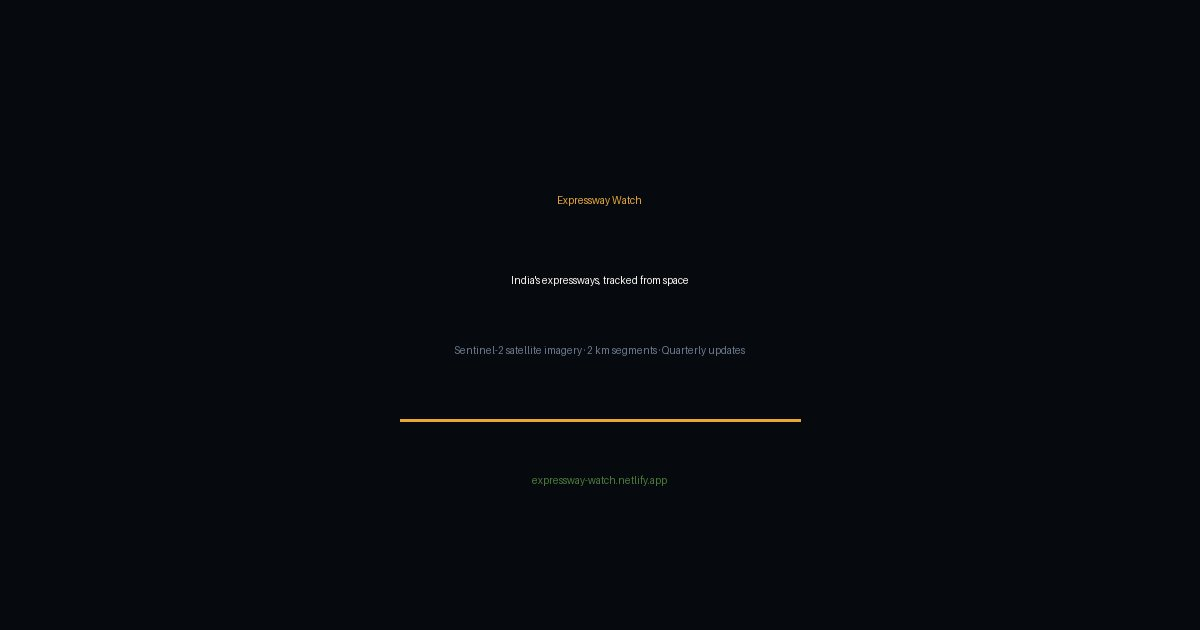
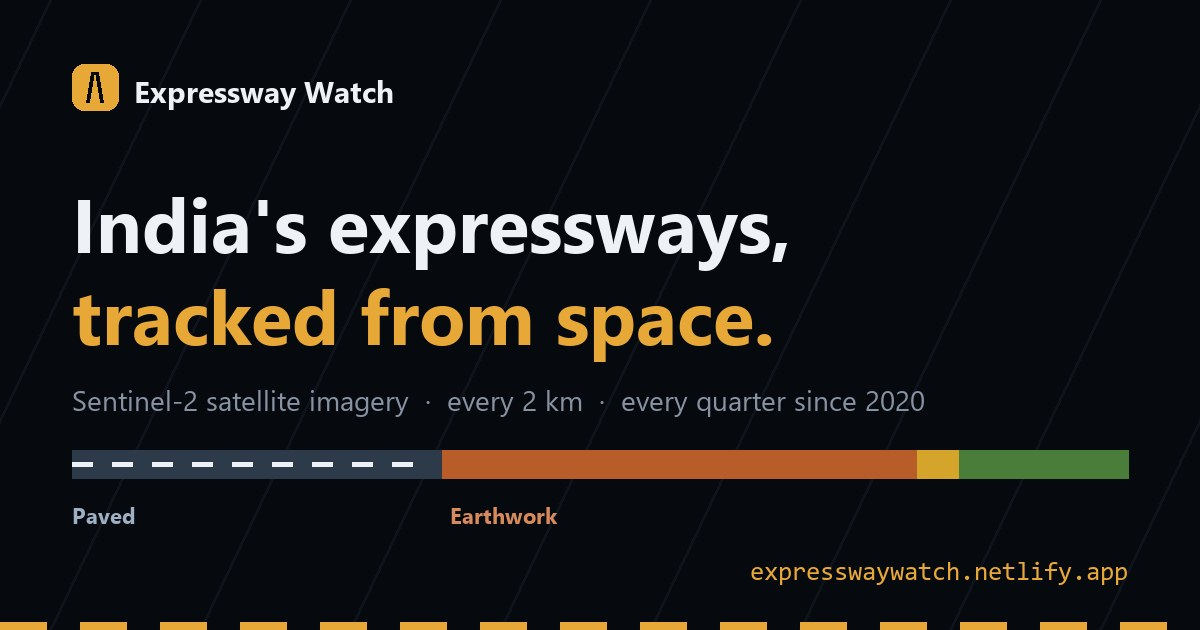
README: live site links, screenshots, fixed links; new link-preview image
- Live dashboard badge and a table of deep links (home, both highways, the
  comparison, the offline file); at-a-glance table; screenshots of a highway
  page and the comparison view taken from the live site.
- Remove links to files that were never committed (results/, chart PNGs, the
  PDF summary, LICENSE, scripts) and correct the deploy notes (master branch,
  netlify.toml publishes docs/, render_pages.py).
- docs/og.jpg: readable at preview size, and shows the real address
  (expresswaywatch.netlify.app, not expressway-watch.netlify.app).

diff --git a/README.md b/README.md
@@ -1,22 +1,80 @@
 # Expressway Watch
 
-**Tracking expressway construction progress from free satellite imagery, 2 km at a time.**
+**Tracking India's expressway construction from free satellite imagery, 2 km at a time.**
 
-[![Open In Colab](https://colab.research.google.com/assets/colab-badge.svg)](https://colab.research.google.com/github/Elmozoop/expressway-watch/blob/main/notebooks/Expressway_Watch.ipynb)
+[![Live dashboard](https://img.shields.io/badge/live%20dashboard-expresswaywatch.netlify.app-e8a838?style=for-the-badge&labelColor=06090e)](https://expresswaywatch.netlify.app)
+[![Open in Colab](https://img.shields.io/badge/run%20it-Google%20Colab-f9ab00?style=for-the-badge&logo=googlecolab&labelColor=06090e)](https://colab.research.google.com/github/Elmozoop/expressway-watch/blob/master/notebooks/Expressway_Watch.ipynb)
+[![Netlify status](https://img.shields.io/badge/hosted%20on-Netlify-00ad9f?style=for-the-badge&logo=netlify&labelColor=06090e)](https://expresswaywatch.netlify.app)
 
-Expressway Watch takes a highway alignment, cuts it into 2 km chainage segments, and uses every quarter of Sentinel-2 imagery since 2020 to estimate what stage each segment was in: **not started → clearing → earthwork → paved**. It needs no field visits, no paid data and no login, and runs end to end in Google Colab.
+[![Expressway Watch: India's expressways, tracked from space](docs/og.jpg)](https://expresswaywatch.netlify.app)
 
-**Quick links:** [one-page summary (PDF)](docs/Expressway_Watch_summary.pdf) · interactive dashboard: [`docs/dashboard.html`](docs/dashboard.html) (one self-contained file: download it and open it in any browser; to put it online, see [Deploy the dashboard](#deploy-the-dashboard)) · notebooks: [any highway](notebooks/Expressway_Watch.ipynb) · [Delhi–Amritsar–Katra preset](notebooks/Expressway_Watch_Delhi_Katra.ipynb)
+Expressway Watch takes a highway's route, cuts it into 2 km pieces, and reads every quarter of Sentinel-2 imagery since 2020 to estimate what stage each piece was in: **not started → clearing → earthwork → paved**. It needs no field visits, no paid data and no login, and runs end to end in Google Colab.
 
-Two case studies: the **Ganga Expressway** (Meerut–Prayagraj, 594 km), which opened in April 2026 and so has a known finish date to check the method against, and the **Delhi–Amritsar–Katra Expressway** (NHAI, 670 km), which is still being built.
+### 👉 [Open the live dashboard](https://expresswaywatch.netlify.app)
 
+| Jump straight to | Link |
+|---|---|
+| Home: the road taken apart in 3D, a satellite time-lapse, how to read it | [expresswaywatch.netlify.app](https://expresswaywatch.netlify.app) |
+| Delhi–Amritsar–Katra Expressway (NHAI, still being built) | [/#delhi-amritsar-katra](https://expresswaywatch.netlify.app/#delhi-amritsar-katra) |
+| Ganga Expressway (UPEIDA, opened April 2026) | [/#ganga-expressway](https://expresswaywatch.netlify.app/#ganga-expressway) |
+| The two side by side | [/#compare/delhi-amritsar-katra/ganga-expressway](https://expresswaywatch.netlify.app/#compare/delhi-amritsar-katra/ganga-expressway) |
+| Offline copy (one self-contained file) | [`docs/dashboard.html`](docs/dashboard.html): download it and open it in any browser |
 
+## Contents
 
-![Construction stage by chainage along the Ganga Expressway](docs/img/whole_route_stages.png)
+- [At a glance](#at-a-glance)
+- [What's on the dashboard](#whats-on-the-dashboard)
+- [Results: Ganga Expressway](#results-ganga-expressway)
+- [Results: Delhi–Amritsar–Katra Expressway](#results-delhiamritsarkatra-expressway)
+- [How it works](#how-it-works)
+- [Run it yourself](#run-it-yourself)
+- [Build and deploy the dashboard](#build-and-deploy-the-dashboard)
+- [Repository layout](#repository-layout)
+- [Limitations](#limitations)
+- [Roadmap](#roadmap) · [Data and credits](#data-and-credits)
 
-## Results: 7 stretches along the Ganga Expressway
+## At a glance
 
-I analysed 140 km of the 594 km route: seven 20 km stretches spread from Meerut to Prayagraj, one in each of seven different construction packages. That's 70 segments of 2 km.
+| | Ganga Expressway | Delhi–Amritsar–Katra Expressway |
+|---|---|---|
+| Built by | UPEIDA, Uttar Pradesh | NHAI, Haryana · Punjab · J&K |
+| Length | 594 km, Meerut → Prayagraj | 670 km, Delhi → Katra |
+| Status | Opened 29 April 2026 | Under construction |
+| Tracked | 140 km: 7 stretches of 20 km, one per construction package | 120 km: 6 stretches of 20 km, from Delhi to about km 400 |
+| Paved by 2026 Q3 | **94%** of the tracked km | **35%** of the tracked km |
+| What it shows | The method checks out: 66 of 70 pieces seen paved before the road opened | Progress falls away along the route: the Delhi end is largely paved, almost nothing past km 230 is |
+
+The Ganga Expressway has a known finish date, so it is the test of the method. The Delhi–Amritsar–Katra Expressway is still being built, which is where a tool like this is actually useful.
+
+## What's on the dashboard
+
+[![A highway page on the dashboard](docs/img/readme/highway.png)](https://expresswaywatch.netlify.app/#delhi-amritsar-katra)
+
+**The home page** explains before it asks:
+
+- **An expressway, taken apart.** A 3D slice of road (three.js) comes apart as you scroll, one layer at a time: asphalt surface, binder course, base, sub-base and embankment. Each is outlined as the words reach it, with its typical real thickness and the stage the satellite reads while it is the top layer. The slice is then rebuilt the way the satellite sees it (not started, clearing, earthwork, paved), and the camera swings overhead to the satellite's view.
+- **A satellite time-lapse** of one piece of the Ganga Expressway, 2020 to 2026, with the stage the tool decided for each quarter.
+- **How to read it:** six years of that one piece, scrolled through. The photo, the two readings the tool takes (green cover against nearby fields, and short-wave infrared brightness) and the stage it decides move together, with the thresholds drawn on the charts.
+- **The whole road, told as you scroll:** the Ganga route colours itself quarter by quarter, from farmland to opening day.
+- **Can you trust it?** The checks against what actually happened.
+
+**Each highway page** has a sticky timeline that plays or scrubs every chart on the page through time:
+
+- **Headline:** the share paved, the tracked road laid end to end as one coloured bar, and a route map.
+- **Where work has stalled** (live projects): every stuck stretch on a 2020–2026 time axis. Pieces that read as stuck where OpenStreetMap says the road is open are listed separately, as likely misses by the tool. **Did it get it right?** (finished projects) puts the reported dates next to what the satellite saw.
+- **Along the route:** every tracked piece at its real distance along the road, with kilometre stones and towns, and a quarter-by-quarter grid for any stretch you pick.
+- **See it for yourself:** drag-to-compare Sentinel-2 images, with the tool's stage for that piece in every quarter underneath, and **Save time-lapse video**, which records the place's images into an MP4 or WebM in your browser.
+- **Progress over time** and **Get the data** (every piece and quarter as a CSV).
+
+**The comparison page** puts two roads on one timeline:
+
+[![Two expressways compared on the dashboard](docs/img/readme/compare.png)](https://expresswaywatch.netlify.app/#compare/delhi-amritsar-katra/ganga-expressway)
+
+It works on phones (including held sideways), in light and dark mode, with reduced motion, without JavaScript (a notice and the headline) and when printed. Links open the right page directly: `/#delhi-amritsar-katra`, `/#compare/<id>/<id>`.
+
+## Results: Ganga Expressway
+
+Seven 20 km stretches spread from Meerut to Prayagraj, one in each of seven construction packages: 140 km of the 594 km route, 70 pieces of 2 km.
 
 | Stretch | Package (approx.)* | Earthwork starts (median) | Paved (median) | Median build time | Paved before opening |
 |---|---|---|---|---|---|
@@ -28,45 +86,18 @@ I analysed 140 km of the 594 km route: seven 20 km stretches spread from Meerut 
 | km 450–470 | 10 | 2023 Q1 | 2025 Q4 | 33 months | 9 / 10 |
 | km 550–570 | 12 | 2023 Q1 | 2025 Q4 | 33 months | 7 / 10 |
 
-\* Package by cumulative length along the route, from the 12 Phase-1 packages listed on [Wikipedia](https://en.wikipedia.org/wiki/Ganga_Expressway). OSM chainage can differ from official chainage by a few km.
+\* Package by cumulative length along the route, from the 12 Phase-1 packages listed on [Wikipedia](https://en.wikipedia.org/wiki/Ganga_Expressway). OpenStreetMap chainage can differ from official chainage by a few km.
 
-**What the satellite timeline shows:**
-- **Checked against reported dates:**
-  - Earthwork starts between 2022 Q3 and 2023 Q1 almost everywhere, right after the reported start of physical work (April 2022).
-  - **66 of 70 segments (94%)** show paving before the reported inauguration (29 April 2026).
-- **Construction started along the whole route at about the same time.** Work didn't move from one end to the other: every package broke ground within about 6 months of the others.
-- **The middle of the route finished first.** km 200–270 (packages 5–6) were paved around 2024 Q4, about a year before every other stretch sampled (around 2025 Q4). Median build time was 25.5–27 months there, against 33–39 months elsewhere.
-- **The 4 misses are the model's fault, not the road's.** At km 450–452, 556–558, 564–566 and 566–568, the finished carriageway is clearly visible in the 2026 images, but the paving signal was too weak to pass the test. They're counted as misses, not as unfinished road.
+- **It matches the reported dates.** Earthwork starts between 2022 Q3 and 2023 Q1 almost everywhere, right after the reported start of physical work (April 2022). **66 of 70 pieces (94%)** are seen paved by 2026 Q1, before the road opened on 29 April 2026.
+- **Work started along the whole route at once.** Every package broke ground within about 6 months of the others; work didn't move from one end to the other.
+- **The middle finished first.** km 200–270 (packages 5–6) were paved around 2024 Q4, about a year before every other stretch sampled, in 25.5–27 months against 33–39 months elsewhere.
+- **The 4 misses are the tool's fault, not the road's.** At km 450–452, 556–558, 564–566 and 566–568 the finished carriageway is clearly visible in the 2026 images, but the paving signal was too weak to pass the test.
 
-![Median build time per stretch](docs/img/whole_route_build_time.png)
+Paving quarters are estimates, good to about ±2 quarters. Paving has to be confirmed in a dry-season quarter, so many paving dates land on a Q4.
 
-Paving quarters are estimates, good to about ±2 quarters. Paving has to be confirmed in a dry-season quarter, so many paving dates land on a Q4. I haven't found reported paving dates per chainage to check them against.
+## Results: Delhi–Amritsar–Katra Expressway
 
-### The paving signal
-While earthwork is going on, the exposed fill and granular layers are bright in short-wave infrared (SWIR, Sentinel-2 band 11). Once bitumen goes down, the carriageway gets much darker. Each segment is compared with its own earthwork peak, so no absolute cut-off is needed. Damp soil also darkens SWIR, so a drop only counts if it's confirmed in a dry-season quarter (January–June).
-
-![SWIR paving indicator km 0–20](docs/img/swir_paving_indicator_km0-20.png)
-
-### Before / after
-![Before and after, km 0–2](docs/img/before_after_km0-2.png)
-![Before and after, km 250–252](docs/img/before_after_km250-252.png)
-
-### Per-stretch results
-Each folder in [`results/`](results/) (`ganga_km0-20`, `ganga_km100-120`, … `ganga_km550-570`) contains:
-- `segment_milestones.csv`: the first-earthwork and first-paved quarter for each segment
-- `segment_quarter_stats.csv`: every metric for every segment and quarter
-- `segments_latest.geojson`: can be opened in QGIS or geojson.io
-- charts: stage heatmap, progress curve, paving indicator, and a before/after image
-
-[`results/whole_route_summary.csv`](results/whole_route_summary.csv) has the table above.
-
-## A live project: Delhi–Amritsar–Katra Expressway (NHAI)
-
-The Ganga Expressway shows the method works on a road whose finish date is known. This one is still being built, which is where the tool is actually useful.
-
-Six 20 km stretches were tracked along the route OpenStreetMap maps from Delhi towards Katra (about 400 km of the 670 km project), 60 pieces of 2 km in all.
-
-![Stage of each 2 km piece along the Delhi–Amritsar–Katra Expressway](docs/img/dak_profile.png)
+Six 20 km stretches along the route OpenStreetMap maps from Delhi towards Katra (about 400 km of the 670 km project): 60 pieces of 2 km.
 
 | Stretch | Paved | Earthwork | Not started | Earthwork began (median) | OSM tag |
 |---|---|---|---|---|---|
@@ -77,123 +108,98 @@ Six 20 km stretches were tracked along the route OpenStreetMap maps from Delhi t
 | km 300–320 | 0/10 | 10/10 | – | 2022 Q3 | under construction |
 | km 380–400 | 0/10 | 3/10 | 7/10 | 2024 Q1 | under construction |
 
-**Progress falls away along the route.** Near Delhi, 16 of 20 pieces are paved. From km 230 onwards, almost none are: km 300–320 is entirely earthwork four years after work began, and 10 pieces (4 at km 242–250, 6 between km 380 and 394) still show no sign of work at all.
-
-That matches what is reported: the Haryana sections are largely finished while Punjab is held up by land acquisition, with completion now put at March 2028.
-
-**An independent check.** OpenStreetMap tags this road as *under construction* from about km 210 onward, and as an open motorway before that. The satellite timeline agrees: paving stops between km 150 and km 230. Neither source knows about the other. ([`results/dak_osm_crosscheck.csv`](results/dak_osm_crosscheck.csv))
-
-**Where the tool is wrong:** a few pieces near Delhi read as earthwork although the road there is open, the same weakness as on the Ganga. Per-stretch results are in [`results/dak_km*/`](results/), including before/after satellite strips for every stalled piece.
+- **Progress falls away along the route.** Near Delhi, 16 of 20 pieces are paved. From km 230 on, almost none are: km 300–320 is entirely earthwork four years after work began, and 10 pieces (4 at km 242–250, 6 between km 380 and 394) show no sign of work at all. That matches what is reported: the Haryana sections are largely finished while Punjab is held up by land acquisition, with completion now put at March 2028.
+- **An independent check agrees.** OpenStreetMap tags the road as *under construction* from about km 210 onward and as an open motorway before that. The satellite timeline sees paving stop between km 150 and km 230. Neither source knows about the other.
+- **Where the tool is wrong:** a few pieces near Delhi read as earthwork although the road there is open, the same weakness as on the Ganga.
 
 ## How it works
 
-1. **Alignment.** OpenStreetMap ways for the expressway are chained into one carriageway, 594 km for the Ganga Expressway. A copy is saved in [`data/`](data/), so runs don't depend on Overpass.
-2. **Segments.** The route is cut every 2 km. Each segment gets three zones:
+1. **Route.** OpenStreetMap ways for the expressway are chained into one carriageway (594 km for the Ganga Expressway). Copies are saved in [`data/`](data/), so runs don't depend on Overpass.
+2. **Pieces.** The route is cut every 2 km. Each piece gets three zones:
    - a 70 m **corridor**
    - a 40 m **carriageway strip**
    - a **control ring** of untouched land 150–400 m to each side
 3. **Imagery.** For each quarter, the 2 clearest Sentinel-2 L2A days are cloud-masked with the scene classification layer and combined into a median composite. Imagery comes from Microsoft Planetary Computer, with Earth Search on AWS as a fallback. Each quarter is cached as soon as it's done.
 4. **Stages.**
-   - **Clearing and earthwork:** the corridor loses vegetation relative to the control ring. The ring cancels out crop harvests and seasons. Earthwork has to show up again within a year, so a one-off harvest dip doesn't count.
-   - **Paving:** a lasting SWIR drop on the carriageway strip, held for 2 quarters, at least one of them in the dry season (January–June).
-   - **Monotone:** progress can't go backwards, so verges greening up after construction don't reset a segment.
-5. **Outputs.** Progress curve, stage heatmap, paving indicator, stalled-segment list, before/after images, interactive map, CSV and GeoJSON. `EXTRA_STRETCHES` runs several stretches in one session.
+   - **Clearing and earthwork:** the corridor loses vegetation relative to the control ring. The ring cancels out harvests and seasons. Earthwork has to show up again within a year, so a one-off harvest dip doesn't count.
+   - **Paving:** while earthwork goes on, exposed fill and gravel are bright in short-wave infrared (SWIR, Sentinel-2 band 11); once bitumen goes down, the carriageway turns much darker. Each piece is compared with its own earthwork peak, so no fixed cut-off is needed. The drop has to hold for 2 quarters, at least one of them in the dry season (January–June), because damp soil darkens SWIR too.
+   - **No going backwards:** verges greening up after construction don't reset a piece.
+5. **Outputs.** Progress curve, stage heatmap, paving indicator, stalled-piece list, before/after images, an interactive map, CSV and GeoJSON.
 
-More detail is in [docs/METHOD.md](docs/METHOD.md). How the method changed after checking it against real data is in [docs/CHANGELOG.md](docs/CHANGELOG.md).
+More detail is in [docs/METHOD.md](docs/METHOD.md). How the method and the dashboard changed over time is in [docs/CHANGELOG.md](docs/CHANGELOG.md).
 
 ## Run it yourself
 
-1. Click **Open in Colab** above.
+1. Click **Run it: Google Colab** above.
 2. In **Step 1**, set the stretch, for example `KM_FROM, KM_TO = 250, 270`.
 3. Choose `Runtime → Run all`. About 20 minutes the first time, then a few minutes for re-runs: the notebook saves the imagery and fetches only what is new.
 
-To add a quarter, move `END` in Step 1 to its last day (for example `"2026-12-31"`) and run all again, at least five days after that date so the last images have reached the catalogues. The notebook searches for scenes again and builds only the new quarter. It also rebuilds any quarter that was saved before it had ended, or for which clearer days have turned up since.
+- **Add a quarter:** move `END` in Step 1 to its last day (for example `"2026-12-31"`) and run all again, at least five days after that date so the last images have reached the catalogues. Only the new quarter is built, plus any quarter saved before it had ended or for which clearer days have turned up since.
+- **Try another expressway:** change `EXPRESSWAY_NAME`, `SEARCH_BBOX` and `ROUTE_START`, and set `ROUTE_FILE = None` to fetch the route from OpenStreetMap. There is also a [Delhi–Amritsar–Katra preset](notebooks/Expressway_Watch_Delhi_Katra.ipynb).
+- **Unit tests:** `pytest tests/` (pure functions in [`src/expressway_watch/core.py`](src/expressway_watch/core.py), on synthetic data).
 
-To try another expressway, change `EXPRESSWAY_NAME`, `SEARCH_BBOX` and `ROUTE_START`, and set `ROUTE_FILE = None` to fetch the alignment from OpenStreetMap.
+## Build and deploy the dashboard
 
-## The dashboard
+**Build.** `python tools/build_dashboard.py` builds the pages from `tools/highways.json`, the `results/` folders from the notebook runs, the satellite chips in `docs/img/sat/` and [`tools/dashboard_template.html`](tools/dashboard_template.html). It writes:
 
-`tools/build_dashboard.py` builds it from `tools/highways.json`, the `results/` folders and the satellite chips in `docs/img/sat/`.
+- `docs/index.html`: the hosted page. It links the satellite images and fetches three.js from `docs/vendor/` only when the 3D scene is about to be drawn.
+- `docs/dashboard.html`: the same page as one file with everything embedded, to download and open offline.
 
-The home page explains before it asks:
+For changes to the page itself (layout, styles, scripts) without the `results/` folders at hand, `python tools/render_pages.py` re-renders both pages from the template, reusing the data already inside them.
 
-- **An expressway, taken apart**: a 3D slice of road, drawn with three.js, comes apart as you scroll. The asphalt surface, binder course, base, sub-base and embankment lift off the fields one at a time, each labelled with what it is and the stage the satellite reads while it is the top layer. The slice is then rebuilt the way the satellite sees it (not started, clearing, earthwork, paved), and the camera swings overhead to the satellite's view. The layers are drawn much thicker than they are, and the page says so.
-- **A satellite time-lapse** of one piece of the Ganga Expressway, 2020 to 2026, wiping from image to image with the stage the tool decided for each.
-- **Pick a highway**: one card per road, with its route, status and how much is paved.
-- **How to read it**: scroll through six years of that one piece. The photo, the two readings the tool takes (green cover against nearby fields, and short-wave infrared brightness) and the stage it decides move together, one quarter at a time, with the thresholds drawn on the charts.
-- **The whole road, told as you scroll**: the Ganga route colours itself quarter by quarter in five chapters, from farmland to opening day. The numbers in the words follow the map.
-- **Can you trust it?**: the checks against what actually happened: 66 of 70 Ganga pieces seen paved by 2026 Q1, the quarter before it opened, and on the Delhi–Katra road, OpenStreetMap's open section ends about where the satellite sees paving stop.
+`tools/test_dashboard.py` drives every screen in Chromium (Playwright) on a desktop, phones and phones held sideways, and fails on any error.
 
-Each highway page:
+**Deploy.** The live site is on Netlify, which redeploys on every push to `master`:
 
-- **Headline**: the share paved, the road laid end to end as one coloured bar, and a route map. The sticky timeline scrubs or plays every chart on the page through time.
-- **Where work has stalled** (live projects): one bar per stuck stretch on a 2020–2026 time axis, from when it got stuck to today, against the reported start of work. Pieces that read as stuck where OpenStreetMap says the road is open are listed separately, as likely misses by the tool. **Did it get it right?** (finished projects) puts the reported dates next to what the satellite saw.
-- **Along the route**: every tracked piece at its real distance along the road, with kilometre stones and towns, then one tile per stretch and a quarter-by-quarter grid for the stretch you pick.
-- **See it for yourself**: drag-to-compare Sentinel-2 images of a finished piece and a stalled one, with the tool's stage for that exact piece in every quarter underneath.
-- **Progress over time** and **Get the data** (every piece and quarter as a CSV).
-
-It works on phones (including held sideways), in dark mode, with reduced motion, without JavaScript (a notice and the headline), and when printed. With reduced motion the opening scene is a still picture with its layers and stages listed; where there is no WebGL, it is just the lists. On a computer without a graphics card, where every 3D frame holds the page up, the scene waits for your first scroll and then runs on its plainest setting. Share links open the right highway directly (`/#delhi-amritsar-katra`).
-
-It writes three files: `docs/index.html` (for hosting: links the satellite images, so it loads fast), `docs/dashboard.html` (the same page as one file with everything embedded, to download and open offline) and `docs/_fragment.html` (the single file without its `<html>`/`<head>` wrapper; not committed). GSAP is inlined from `tools/vendor/`; three.js is copied from there to `docs/vendor/three.min.js`, which `index.html` fetches only when the opening scene is about to be drawn (a highway page opened from a link never loads it), and is inlined into `dashboard.html`. The page needs no script CDN. **Upload `docs/vendor/` with the rest of `docs/`**, or the hosted page shows the opening scene as plain lists. `tools/test_dashboard.py` drives every screen in Chromium on a desktop, two phones and phones held sideways (359 checks, including that nothing overflows or overlaps and that the 3D model never jumps) and fails on any error. It serves the page's font from `tools/vendor/fonts/`, so it runs offline.
-
-## Deploy the dashboard
-
-**Netlify.** Log in at [netlify.com](https://www.netlify.com) with GitHub, choose **Add new site → Import an existing project**, pick `Elmozoop/expressway-watch`, and deploy. Leave the build settings empty: [`netlify.toml`](netlify.toml) already has them.
-
-- It builds from `docs/` (`base = "docs"`), so Netlify doesn't try to pip-install the pipeline's `requirements.txt` at the repo root.
-- The one build step, [`tools/netlify_build.sh`](tools/netlify_build.sh), turns the link-preview image into a full URL, so a link shared on WhatsApp, LinkedIn or Slack shows [`docs/og.jpg`](docs/og.jpg).
-- Every push to `main` redeploys.
-
-**GitHub Pages.** *Settings → Pages → Source: deploy from a branch → `main` / `/docs`.* Link previews won't have an image there, because the image path stays relative.
+- [`netlify.toml`](netlify.toml) publishes `docs/`. Pages are routed by `#`, so there are no rewrites, and images and three.js are cached for a week.
+- The one build step, [`tools/netlify_build.sh`](tools/netlify_build.sh), turns the link-preview image into a full URL, so a link shared on WhatsApp, LinkedIn or Slack shows [`docs/og.jpg`](docs/og.jpg). Set `SITE_URL` in Netlify's environment variables if the site moves to its own domain.
+- **GitHub Pages** works too: *Settings → Pages → deploy from a branch → `master` / `/docs`*. Link previews won't have an image there, because the image path stays relative.
 
 ## Repository layout
 
 ```
-notebooks/Expressway_Watch.ipynb   the full pipeline (generated from src/ by tools/build_notebook.py)
-src/expressway_watch/core.py       geometry, pixel classes and stage logic (pure functions)
-tests/test_core.py                 unit tests on synthetic data  ->  pytest
-data/                              saved OSM alignments (Ganga, Delhi-Amritsar-Katra)
-results/ganga_km*/                 Ganga Expressway: seven stretches
-results/dak_km*/                   Delhi-Amritsar-Katra: six stretches
-tools/highways.json                what the dashboard shows for each highway
-tools/build_dashboard.py           builds the dashboard from tools/dashboard_template.html
-tools/test_dashboard.py            browser test of the built dashboard (playwright)
-tools/make_og_image.py             renders docs/og.jpg, the link-preview image
-tools/cut_sat_chips.py             cuts a notebook before/after strip into chips for docs/img/sat/
-tools/netlify_build.sh             Netlify's build step (see netlify.toml)
-tools/vendor/                      GSAP, three.js and the Overpass font, with their licences
-tools/whole_route_figures.py       whole-route chart and summary table from all results/ folders
-netlify.toml                       static hosting config (builds from docs/)
-pytest.ini                         points pytest at tests/ (the browser test is run directly)
-docs/                              dashboard, method notes, changelog, figures, docs/img/sat/ satellite chips,
-                                   docs/vendor/ the page's copy of three.js
+notebooks/Expressway_Watch.ipynb        the full pipeline (generated from src/ by tools/build_notebook.py)
+notebooks/Expressway_Watch_Delhi_Katra  the same, preset for the Delhi–Amritsar–Katra Expressway
+src/expressway_watch/core.py            geometry, pixel classes and stage logic (pure functions)
+tests/test_core.py                      unit tests on synthetic data  ->  pytest
+data/                                   saved OpenStreetMap routes (Ganga, Delhi–Amritsar–Katra)
+tools/highways.json                     what the dashboard shows for each highway
+tools/dashboard_template.html           the dashboard page: markup, styles and scripts
+tools/build_dashboard.py                builds docs/ from the template and the notebook results
+tools/render_pages.py                   re-renders docs/ from the template alone
+tools/test_dashboard.py                 browser test of the built dashboard (Playwright)
+tools/whole_route_figures.py            whole-route chart and summary table from the results folders
+tools/netlify_build.sh                  Netlify's build step (see netlify.toml)
+tools/vendor/                           GSAP and three.js, with their licences
+docs/                                   the dashboard, method notes, changelog, satellite chips (docs/img/sat/),
+                                        README screenshots (docs/img/readme/) and the page's copy of three.js
+netlify.toml                            static hosting config
 ```
 
 ## Limitations
 
-- **Resolution:** Sentinel-2 pixels are 10 m, so lanes, bridges and other structures can't be resolved individually. Stages describe a 2 km segment as a whole.
-- **Monsoon gaps:** monsoon quarters are cloudy, and gaps are filled from the previous quarter.
-- **Pavement type:** paving detection assumes bituminous (asphalt) pavement. Concrete pavement is bright and would need a different signal.
-- **Chainage:** this follows the OpenStreetMap line, starting at the Meerut end. It may differ from official NHAI/UPEIDA chainage by a few km.
-- **Paving dates:** paving quarters are estimates, good to about ±1–2 quarters:
-  - Short-wave infrared also changes with soil moisture and dust through the seasons.
-  - At 10 m, the "paved" signal can't separate the upper granular layers from the bitumen itself.
+- **Resolution:** Sentinel-2 pixels are 10 m, so lanes, bridges and other structures can't be told apart. Stages describe a 2 km piece as a whole.
+- **Monsoon gaps:** monsoon quarters are cloudy; gaps are filled from the previous quarter.
+- **Pavement type:** paving detection assumes bituminous (asphalt) pavement. Concrete is bright and would need a different signal.
+- **Chainage:** this follows the OpenStreetMap line and may differ from official NHAI/UPEIDA chainage by a few km.
+- **Paving dates** are estimates, good to about ±1–2 quarters: SWIR also changes with soil moisture and dust, and at 10 m the paving signal can't separate the upper gravel layers from the bitumen itself.
 - **Status:** these are independent estimates, not official progress figures.
 
 ## Roadmap
 
-- [x] Second validation stretch (km 250–270)
-- [ ] Sentinel-1 radar to fill monsoon gaps
-- [x] Seven stretches across the route (140 km, 7 packages)
-- [ ] Stronger paving signal, to fix the 4 missed segments
-- [ ] Whole-route run (594 km) with a stalled-segment report
+- [x] Seven stretches across the Ganga Expressway (140 km, 7 packages)
 - [x] An expressway still under construction (Delhi–Amritsar–Katra)
+- [x] Interactive dashboard, hosted, with side-by-side comparison and time-lapse video export
+- [ ] Sentinel-1 radar to fill monsoon gaps
+- [ ] Stronger paving signal, to fix the 4 missed pieces
+- [ ] Whole-route run (594 km) with a stalled-piece report
 - [ ] More live projects, refreshed every quarter
 
 ## Data and credits
 
 - **Imagery:** Copernicus Sentinel-2 data (ESA), via [Microsoft Planetary Computer](https://planetarycomputer.microsoft.com/) and [Earth Search](https://earth-search.aws.element84.com/v1).
-- **Alignment:** © [OpenStreetMap](https://www.openstreetmap.org/copyright) contributors, ODbL.
+- **Routes:** © [OpenStreetMap](https://www.openstreetmap.org/copyright) contributors, ODbL.
 - **Reported milestones:** [Ganga Expressway, Wikipedia](https://en.wikipedia.org/wiki/Ganga_Expressway).
+- **Libraries:** [three.js](https://threejs.org) (MIT) and [GSAP](https://gsap.com) for the dashboard.
 
-Built by **Yash** ([@Elmozoop](https://github.com/Elmozoop)). Code is MIT licensed; see [LICENSE](LICENSE).
+Built by **Yash** ([@Elmozoop](https://github.com/Elmozoop)).
